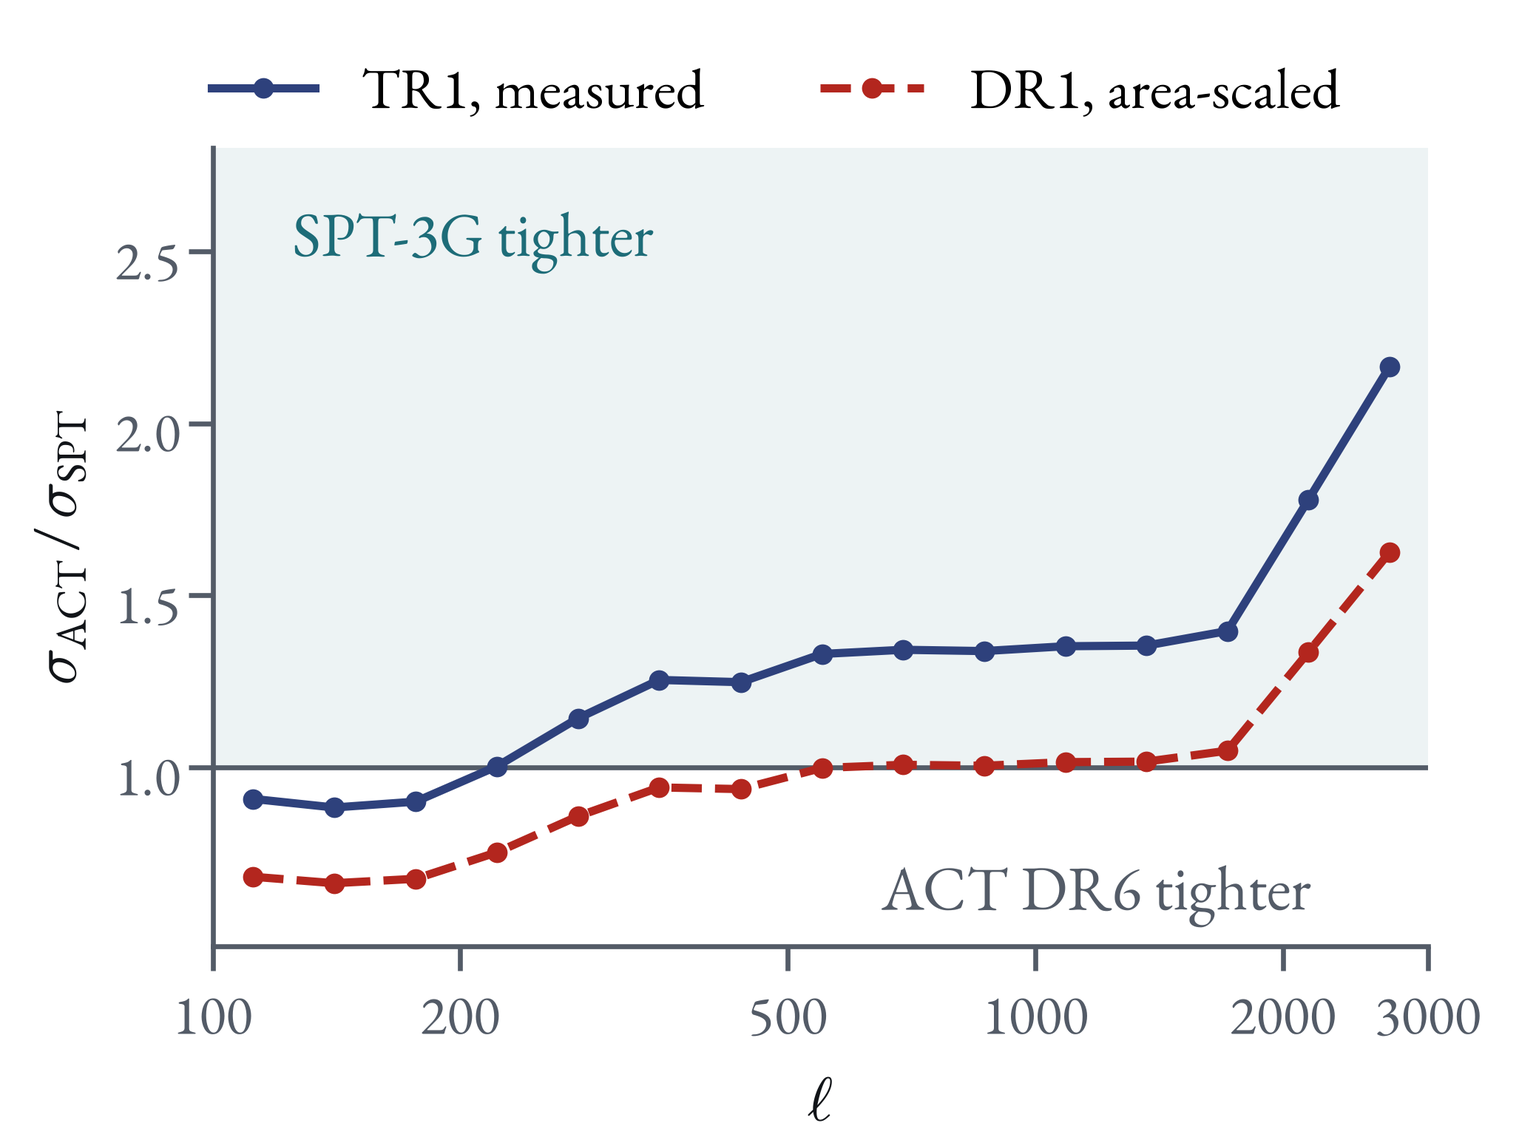
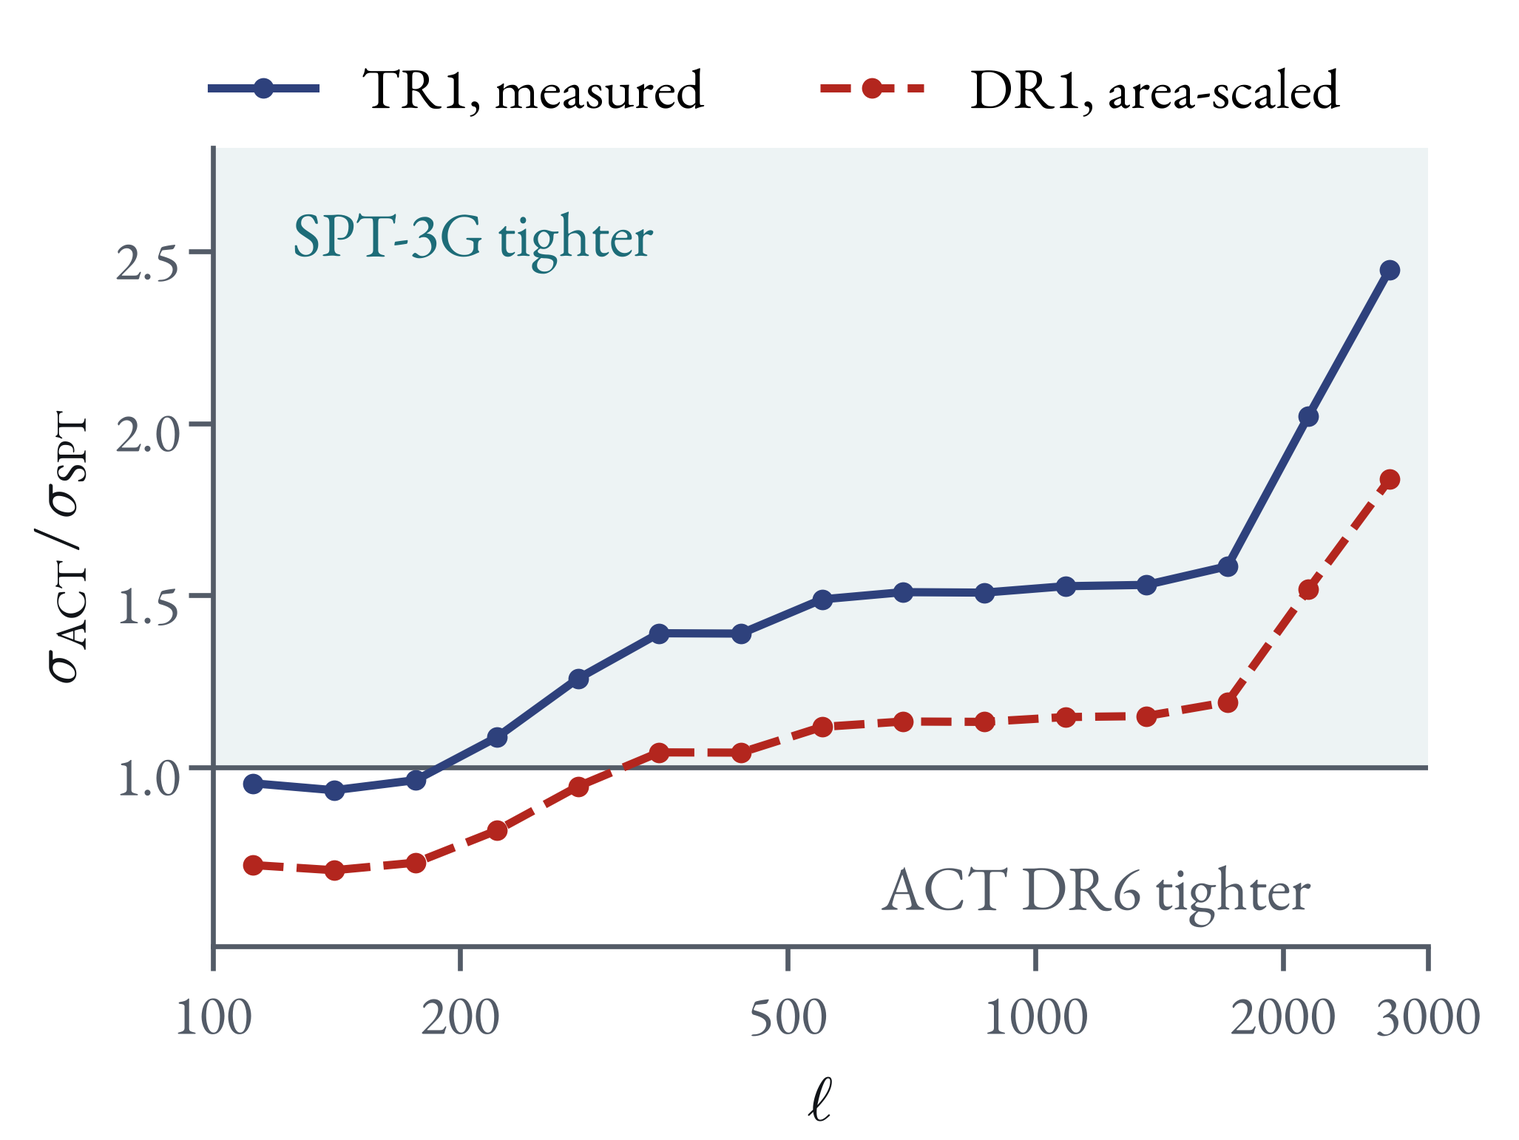
SPT deck, Cail's second 29 Oct pass: σ-ratio back on Cycle 1 (same covariance recipe for both surveys); timeline without n(z)-close-to-final and the caption, scale cuts finalized Dec–Jan, review from early April; cov-routes trimmed and larger; open questions trimmed; summary leads with the paper and
Claude-Session: https://claude.ai/code/session_01JK7o9H4x2RpUv9zFY6qD1K

diff --git a/2610_SPT_CMBX/slides/timeline.html b/2610_SPT_CMBX/slides/timeline.html
@@ -1,7 +1,7 @@
 <section data-layout="figure">
   <h2>Timeline to the Euclid DR1 release</h2>
   <figure>
-    <svg viewBox="0 0 1712 760" role="img" aria-label="Timeline to the Euclid DR1 release. On the now line, in hand: the complete TR1 product suite, the DR1 clustering catalogue and the TR1 chains. Then, in three steps: the DR1 shear catalogue during November, DR1-Foundation on 12 November, n(z) close to final at the end of November and DR1 chains ramping up from December; the final selection, n(z) and m bias in February into March and unblinding at the end of March; Euclid internal review in April and May, public DR1 and submission in June 2027.">
+    <svg viewBox="0 0 1712 760" role="img" aria-label="Timeline to the Euclid DR1 release. On the now line, in hand: the complete TR1 product suite, the DR1 clustering catalogue and the TR1 chains. Then, in three steps: the DR1 shear catalogue during November, DR1-Foundation on 12 November, DR1 chains ramping up from December and scale cuts finalized over December and January; the final selection, n(z) and m bias in February into March and unblinding at the end of March; Euclid internal review in April and May, public DR1 and submission in June 2027.">
       <defs>
         <!-- tapers for bars without a sharp start or end: masks in the bar's own box -->
         <linearGradient id="tl-taper-ramp"><stop offset="0" stop-color="#fff" stop-opacity="0.08"></stop><stop offset="1" stop-color="#fff"></stop></linearGradient>
@@ -39,17 +39,16 @@
       <circle cx="520" cy="506" r="13" class="fill-cobalt"></circle>
       <text x="496" y="518" font-size="38" text-anchor="end">TR1 chains</text>
 
-      <!-- step 1, Nov–Dec: DR1 shear sometime in November, DR1-Foundation, n(z) close to final, DR1 chains spin up -->
+      <!-- step 1, Nov–Jan: DR1 shear sometime in November, DR1-Foundation, DR1 chains spin up, scale cuts finalized -->
       <g class="fragment">
         <circle cx="574" cy="100" r="13" class="fill-accent"></circle>
         <text x="598" y="112" font-size="38">DR1-Foundation, 12 Nov</text>
         <rect x="526" y="152" width="150" height="36" rx="10" class="fill-accent" mask="url(#tl-mask-both)"></rect>
         <text x="690" y="182" font-size="38">DR1 shear catalogue</text>
-        <text x="644" y="252" font-size="38" text-anchor="end">n(z)</text>
-        <circle cx="668" cy="240" r="13" class="fill-accent"></circle>
-        <text x="692" y="252" font-size="38">close to final</text>
         <rect x="650" y="554" width="485" height="36" rx="10" class="fill-cobalt" mask="url(#tl-mask-ramp)"></rect>
         <text x="1153" y="584" font-size="38">DR1 chains</text>
+        <rect x="668" y="488" width="295" height="36" rx="10" class="fill-cobalt" mask="url(#tl-mask-both)"></rect>
+        <text x="981" y="518" font-size="38">finalizing scale cuts</text>
       </g>
 
       <!-- step 2, Feb–Mar: final products, unblinding -->
@@ -62,33 +61,32 @@
 
       <!-- step 3, Apr–Jun: review, release, submission -->
       <g class="fragment">
-        <rect x="1258" y="620" width="295" height="36" rx="10" class="fill-rule"></rect>
-        <text x="1240" y="650" font-size="38" text-anchor="end">Euclid internal review</text>
-        <path d="M1559 638 H1627 V522" class="stroke-muted fill-none" stroke-width="4" stroke-dasharray="10 8"></path>
+        <rect x="1282" y="620" width="295" height="36" rx="10" class="fill-rule"></rect>
+        <text x="1264" y="650" font-size="38" text-anchor="end">Euclid internal review</text>
+        <path d="M1583 638 H1627 V522" class="stroke-muted fill-none" stroke-width="4" stroke-dasharray="10 8"></path>
         <circle cx="1627" cy="100" r="13" class="fill-accent"></circle>
         <text x="1603" y="112" font-size="38" text-anchor="end">public DR1</text>
         <circle cx="1627" cy="506" r="13" class="fill-cobalt"></circle>
         <text x="1603" y="518" font-size="38" text-anchor="end">submission</text>
       </g>
     </svg>
-    <span class="source">Euclid DR1 plan as presented at the Euclid WL-SWG meeting, Napoli, October 2026</span>
   </figure>
   <aside class="notes">
     <ul class="skim">
       <li><strong>On “now”</strong> — what is in hand: the complete TR1 product suite, the DR1 clustering catalogues (the MER/PHZ R2 sample) and the blinded TR1 chains of the posteriors slide.</li>
       <li><strong>Top lane</strong> — Euclid data products, as presented at Napoli; a bar with a soft edge has no fixed date at that end.</li>
       <li><strong>Bottom lane</strong> — this paper's plan: DR1 chains on blinded data from December, Euclid internal review in April–May, submission on the public-release day.</li>
-      <li><strong>Steps</strong> — November–December, then February–March (final products, unblinding), then April–June (review, release, submission).</li>
+      <li><strong>Steps</strong> — November–January (shear catalogue, chains starting, scale cuts), then February–March (final products, unblinding), then April–June (review, release, submission).</li>
     </ul>
     <details><summary>Euclid data products</summary>
-    <p>The DR1 shear catalogues (the R3 reprocessing, with a much smaller PSF-size bias than R2) reach the whole Euclid Consortium during November, at the earliest at the end of October, hence the soft bar; like every DR1 shear product they are blinded until the end of March. DR1-Foundation is released on 12 November 2026. The n(z) are close to final at the end of November. The final selection, the final multiplicative shear bias $m$ from SHE-CAL (first run in November) and the final n(z) arrive in February, the n(z) at the end of February when the products freeze; the bar fades out early in March for that reason. The two-point measurements are unblinded by the end of March, and the public DR1 release is in mid-June 2027.</p>
+    <p>The DR1 shear catalogues (the R3 reprocessing, with a much smaller PSF-size bias than R2) reach the whole Euclid Consortium during November, at the earliest at the end of October, hence the soft bar; like every DR1 shear product they are blinded until the end of March. DR1-Foundation is released on 12 November 2026. The n(z) are close to final at the end of November (not drawn: the final n(z) follow). The final selection, the final multiplicative shear bias $m$ from SHE-CAL (first run in November) and the final n(z) arrive in February, the n(z) at the end of February when the products freeze; the bar fades out early in March for that reason. The two-point measurements are unblinded by the end of March, and the public DR1 release is in mid-June 2027.</p>
     </details>
     <details><summary>The analysis plan</summary>
-    <p>The DR1 chains start as soon as the n(z) are close to final, around the start of December, and run on the blinded DR1 data, ramping up as the products firm up until they converge on the final products in February and March. The SPT products listed in backup are needed for the covariance, so they come before the final chains.</p>
-    <p>Papers go into the Euclid Consortium's internal (ECP) review at about the end of March, and the roughly two months of review (fast style screening, about two weeks of author revisions, a three-week sign-off window) end around the end of May. The dashed stretch to the June release is buffer, and the papers are submitted on release day. They go in even if numbers may still shift: the DR1-Foundation strong-lensing papers were written ahead with TBD numbers and needed only a final update.</p>
+    <p>The DR1 chains start as soon as the n(z) are close to final, around the start of December, and run on the blinded DR1 data, ramping up as the products firm up until they converge on the final products in February and March. The scale cuts are finalized over December and January, with the 3×2pt group's. The SPT products listed in backup are needed for the covariance, so they come before the final chains.</p>
+    <p>Papers go into the Euclid Consortium's internal (ECP) review in early April, after unblinding at the end of March, and the roughly two months of review (fast style screening, about two weeks of author revisions, a three-week sign-off window) end in early June. The dashed stretch to the June release is buffer, and the papers are submitted on release day. They go in even if numbers may still shift: the DR1-Foundation strong-lensing papers were written ahead with TBD numbers and needed only a final update.</p>
     </details>
     <details><summary>Sources</summary>
-    <p>Euclid WL-SWG meeting, Napoli, October 2026: day 1 (DR1 timeline, release papers, ECP review timing: about two months), day 2 (3×2pt pipeline group's DR1 timeline, $m$ bias November to February) and day 3 (roadmap: full non-final chains on blinded DR1 in December).</p>
+    <p>Euclid WL-SWG meeting, Napoli, October 2026: day 1 (DR1 timeline, release papers, ECP review timing: about two months), day 2 (3×2pt pipeline group's DR1 timeline, $m$ bias November to February) and day 3 (roadmap: full non-final chains on blinded DR1 in December, final scale cuts in January).</p>
     </details>
   </aside>
 </section>

diff --git a/2610_SPT_CMBX/slides/spt-vs-act.html b/2610_SPT_CMBX/slides/spt-vs-act.html
@@ -1,7 +1,7 @@
 <section data-layout="figure-text" data-split="60">
   <h2>SPT-3G is tighter than ACT DR6 at small scales</h2>
   <figure>
-    <img src="images/spt_sigma_ratio.png" alt="Ratio of the ACT DR6 to SPT-3G per-bandpower error bar in the CMB-lensing crosses against multipole, measured on TR1 and scaled to the DR1 overlaps: crossing one at ell of about 200 on TR1; on DR1 near one from 500 to 1700, below one under ell of about 300, and above one at the two smallest-scale bands">
+    <img src="images/spt_sigma_ratio.png" alt="Ratio of the ACT DR6 to SPT-3G per-bandpower error bar in the CMB-lensing crosses against multipole, Cycle 1, measured on TR1 and scaled to the DR1 overlaps: crossing one at ell of about 190 on TR1 and 320 on DR1, about 1.5 on TR1 and 1.1 to 1.2 on DR1 from 550 to 1700, and rising at the two smallest-scale bands">
   </figure>
   <div class="text">
     <ul>
@@ -9,12 +9,12 @@
       <li>DR1: mostly comparable;<br>ACT tighter below $\ell \approx 300$</li>
       <li>ACT gains more of DR1:<br>1069 deg² against 353</li>
     </ul>
-    <p class="source">Cycle 2 · PH-GMV against baseline κ</p>
+    <p class="source">Cycle 1 · PH-GMV against baseline κ</p>
   </div>
   <aside class="notes">
     <ul class="skim">
       <li><strong>The curve</strong> — $\sigma_\mathrm{ACT}/\sigma_\mathrm{SPT}$ per bandpower in the CMB-lensing crosses; above 1, SPT-3G's error bar is smaller.</li>
-      <li><strong>Solid</strong> — measured on TR1, the mean over the twelve κ crosses; between the crossing and the small-scale rise it sits at 1.3–1.4 from $\ell \approx 550$ to 1700.</li>
+      <li><strong>Solid</strong> — measured on TR1, the mean over the twelve κ crosses; between the crossing and the small-scale rise it sits at about 1.5 from $\ell \approx 550$ to 1700.</li>
       <li><strong>Dashed</strong> — the TR1 ratio scaled by the DR1 overlap areas (×0.751), SPT-3G Main only; the Summer fields are not in it.</li>
       <li><strong>Only error bars</strong> enter: the figure carries no measured amplitude.</li>
     </ul>
@@ -22,11 +22,11 @@
     <p>Each σ is the square root of the diagonal of that survey's full NaMaster Gaussian covariance, the error bars of the data-vector slide, in the 15 bandpowers from $\ell = 100$ to 3000. The twelve crosses (shear in six source bins × κ, galaxy density in six lens bins × κ) give nearly the same ratio, because the CMB-lensing noise rather than the Euclid tracer sets it; the solid line is their mean.</p>
     <p>The dashed line scales the TR1 ratio by the overlap areas, with σ ∝ (area)$^{-1/2}$ for each survey: ratio$_\mathrm{DR1}$ = ratio$_\mathrm{TR1}\times\sqrt{(A^\mathrm{TR1}_\mathrm{ACT}/A^\mathrm{DR1}_\mathrm{ACT})(A^\mathrm{DR1}_\mathrm{SPT}/A^\mathrm{TR1}_\mathrm{SPT})} = 0.751\times$ ratio$_\mathrm{TR1}$. ACT DR6's effective overlap grows from 222 to 1069 deg², SPT-3G Main's from 130 to 353 deg² (TR1 weak-lensing coverage and DR1 VMPZ coverage, as on the footprint slide). The scaling assumes the same noise per mode and ignores mode coupling. It uses SPT-3G Main alone: the Summer fields add 751 deg² of DR1 overlap outside Main (Main and Summer together 1104 deg², more than ACT DR6), at higher lensing noise, and are not in this projection.</p>
     </details>
-    <details><summary>Against the Cycle-1 version</summary>
-    <p>The ratio is about 12% lower than in the Cycle-1 version at every ℓ (TR1 at $\ell \approx 2700$: 2.4 then, 2.2 now; DR1: 1.8 then, 1.6 now). The SPT-3G map did not change: both cycles use the bias- and profile-hardened GMV reconstruction (the Cycle-1 product's manifest records spt_estimator gmvbhttprf). The ACT DR6 covariance did: Cycle 2 models ACT's κ noise locally, from its spatially varying noise variance calibrated on 400 ACT simulations, and SPT-3G has no such calibration yet. On the galaxy-density × κ crosses, ACT's σ is unchanged between cycles while SPT-3G's grew by 12%, following the larger Cycle-2 galaxy auto-spectra; the shear × κ crosses shrank for both, ACT's more (×0.70 against ×0.80). So the shift sits on the ACT side of the comparison (inferred from that decomposition, not run as a controlled test). An SPT-3G local-noise calibration would put the two on the same footing. With κ alone, the blinded TR1 posteriors give σ($S_8$) 0.052 with SPT-3G and 0.058 with ACT DR6.</p>
+    <details><summary>Why Cycle 1</summary>
+    <p>This is the Cycle-1 TR1 data vector, where both error bars come from the same recipe: the full NaMaster Gaussian covariance on the data-derived spectra. In Cycle 2 the ACT DR6 covariance also models ACT's spatially varying κ noise, calibrated on 400 ACT simulations, and SPT-3G has no counterpart yet; that lowers ACT's σ relative to SPT-3G's by about 12% at every ℓ, so a Cycle-2 ratio is not like for like. The SPT-3G map is the same in both cycles, the bias- and profile-hardened GMV reconstruction. With κ alone, the Cycle-2 blinded TR1 posteriors give σ($S_8$) 0.052 with SPT-3G and 0.058 with ACT DR6.</p>
     </details>
     <details><summary>Sources</summary>
-    <p>σ from the Cycle-2 TR1 likelihood inputs of both surveys (the data-vector slide's export, dv_vector_spt.json). Figure: 2610_SPT_CMBX/make_sigma_ratio.py.</p>
+    <p>σ from the Cycle-1 TR1 likelihood inputs of both surveys (the Napoli data-vector export, dv_vector.json). Figure: 2610_SPT_CMBX/make_sigma_ratio.py.</p>
     </details>
   </aside>
 </section>

diff --git a/2610_SPT_CMBX/slides/summary.html b/2610_SPT_CMBX/slides/summary.html
@@ -1,19 +1,21 @@
 <section data-layout="closing">
   <h2>Summary</h2>
   <ol>
+    <li>Euclid × SPT-3G 6×2pt analysis by ~June 2027</li>
     <li>TR1 × SPT-3G: blinded 5×2pt vector and first posteriors</li>
     <li>SPT-3G κ crosses are tighter than ACT DR6 at small scales</li>
     <li>Euclid DR2 will overlap well with SPT-3G</li>
-    <li>Open: covariance with SPT mocks, κκ, foregrounds, inference</li>
-    <li>To participate: external-collaborator status, by June 2027</li>
+    <li>Open: covariance with SPT mocks, κκ, foregrounds</li>
+    <li>To participate: external-collaborator status, please contact me</li>
   </ol>
   <p class="contact">Cail Daley · CEA Paris-Saclay</p>
   <aside class="notes">
     <ul class="skim">
+      <li><strong>The paper</strong> — the Euclid DR1 key-project paper SPT × Euclid 6×2pt: Euclid shear and clustering crossed with SPT-3G CMB lensing, submitted with the public DR1 release around June 2027.</li>
       <li><strong>TR1 × SPT-3G</strong> — the pipeline is validated on GLASS mocks and blinded as in the Euclid 3×2pt analysis; the posteriors use the analytic Gaussian + SSC covariance.</li>
-      <li><strong>Small scales</strong> — SPT-3G's error bars in the κ crosses are smaller than ACT DR6's from $\ell \approx 200$ on TR1; projected to DR1 the two are comparable over most of the range, ACT DR6 tighter below $\ell \approx 300$ and SPT-3G above $\ell \approx 1700$.</li>
+      <li><strong>Small scales</strong> — SPT-3G's error bars in the κ crosses are smaller than ACT DR6's from $\ell \approx 200$ on TR1; projected to DR1 the two are comparable over most of the range, ACT DR6 tighter below $\ell \approx 300$ and SPT-3G 1.1–1.2× tighter from $\ell \approx 550$, more at the smallest scales (Cycle 1, where both covariances follow the same recipe).</li>
       <li><strong>DR2</strong> — its southern area will overlap SPT-3G far more than DR1 does.</li>
-      <li><strong>Open</strong> — the covariance plan needs SPT's mock reconstructions with their input κ; the scope (cosmologies, κκ, foreground mitigation, inference) is open.</li>
+      <li><strong>Open</strong> — the covariance plan needs SPT's mock reconstructions with their input κ; the scope (cosmologies, κκ, foreground mitigation) is open.</li>
       <li><strong>Participation</strong> — Euclid external-collaborator status, for people who will commit time before the DR1 papers in June 2027.</li>
     </ul>
   </aside>

diff --git a/2610_SPT_CMBX/slides/cov-routes.html b/2610_SPT_CMBX/slides/cov-routes.html
@@ -4,8 +4,7 @@
     <div>
       <p><strong class="accent">Constrained on SPT sims</strong></p>
       <ul>
-        <li>Euclid fields drawn around SPT's input κ</li>
-        <li>SPT's own reconstructions</li>
+        <li>Euclid fields constrained on SPT input κ</li>
         <li>most realistic κ noise</li>
       </ul>
     </div>
@@ -14,19 +13,18 @@
       <ul>
         <li>log-normal κ, own quadratic estimator</li>
         <li>SPT-, ACT-, Planck-like<br>on the same skies</li>
-        <li>a first cross-covariance</li>
+        <li>a first cross-covariance between CMB surveys</li>
       </ul>
     </div>
   </div>
-  <ul class="small">
-    <li>Combining CMB surveys needs their cross-covariance</li>
+  <ul>
     <li>SPT-constrained mocks for the SPT block, SPT-like for the crosses;<br>best, SPT reconstructions of the ACT and Planck input sims</li>
   </ul>
   <aside class="notes">
     <ul class="skim">
       <li><strong>Two routes</strong> — the same two the FLASK covariance already uses: constrained, as for ACT DR6, and unconstrained, as for the Planck-like set.</li>
       <li><strong>Constrained</strong> needs SPT's simulated input κ with the matched reconstructions (backup: data products needed from SPT).</li>
-      <li><strong>Bottom</strong> — combining CMB surveys needs their cross-covariance, which neither survey's simulations give alone; three options below.</li>
+      <li><strong>Bottom</strong> — combining CMB surveys needs their cross-covariance, which neither survey's simulations give alone: the hybrid plan, and the best option (details below).</li>
     </ul>
     <details><summary>Constrained on the existing SPT simulations</summary>
     <p>The log-normal Euclid fields are drawn conditioned on the input κ of SPT's own lensing simulations, and the CMB-lensing field in each realization is SPT's reconstruction of that simulation. The reconstruction noise then carries everything the real pipeline does (observing strategy, filtering, masking, mean field, noise biases), so this is the most realistic route for the SPT block. It needs the input κ and the matched reconstructions of SPT's simulations.</p>

diff --git a/2610_SPT_CMBX/slides/scope.html b/2610_SPT_CMBX/slides/scope.html
@@ -5,8 +5,8 @@
       <p><strong class="accent">Open questions</strong></p>
       <ul class="mid">
         <li>Cosmologies, extensions</li>
-        <li>Chains and inference:<br>I need help!<br>Especially for κκ</li>
-        <li>CMB foreground mitigation in the crosses: haven't thought deeply about it yet</li>
+        <li>How to incorporate κκ</li>
+        <li>CMB foregrounds: haven't thought deeply about it yet</li>
         <li>Too late to add Summer + Wide?</li>
       </ul>
     </div>

diff --git a/2610_SPT_CMBX/make_sigma_ratio.py b/2610_SPT_CMBX/make_sigma_ratio.py
@@ -1,6 +1,7 @@
 """SPT-3G vs ACT DR6: per-bandpower error-bar ratio sigma_ACT / sigma_SPT on the kappa crosses, TR1 and DR1.
 
-Reads the Napoli data-vector export (2610_Napoli_CMBX/private/dv_vector_spt.json, Cycle-2 LensMC variants), whose
+Reads a data-vector export of the Napoli dv-vector slide, by default the Cycle-1 one
+(2610_Napoli_CMBX/private/dv_vector.json, LensMC variants), whose
 sig is sigma_G, the square root of the diagonal of each survey's full NaMaster Gaussian covariance, for
 the 12 kappa crosses (6 shear bins, 6 lens bins) in 15 bandpowers from ell = 100 to 3000. Only error
 bars enter, so the figure carries no measured amplitude and is blind-independent.
@@ -10,10 +11,16 @@ line is drawn: their mean. The DR1 line projects it with sigma proportional to A
 overlap with Euclid: ratio_DR1 = ratio_TR1 * sqrt((A_ACT,TR1 / A_ACT,DR1) * (A_SPT,DR1 / A_SPT,TR1)).
 Writes images/spt_sigma_ratio.png.
 
+The default is Cycle 1 because there both covariances are built the same way (data-derived iNKA). The
+Cycle-2 ACT covariance adds a local kappa-noise model calibrated on ACT simulations
+(kappa_power separable_noise_variance_v1) that SPT-3G has no counterpart for, so a Cycle-2 ratio
+(--source .../dv_vector_spt.json) is not like for like. Both cycles use the SPT-3G PH-GMV map.
+
 Run: uv run --with numpy --with matplotlib --with fonttools --with brotli python make_sigma_ratio.py
 """
 from __future__ import annotations
 
+import argparse
 import ast
 import json
 import os
@@ -28,7 +35,7 @@ from matplotlib.lines import Line2D
 import numpy as np
 
 HERE = Path(__file__).resolve().parent
-DV = HERE.parent / '2610_Napoli_CMBX/private/dv_vector_spt.json'
+DV = HERE.parent / '2610_Napoli_CMBX/private/dv_vector.json'
 OUT = HERE.parent / 'images/spt_sigma_ratio.png'
 INK, MUTED = '#111418', '#535B67'
 SHADE = '#1D6C78'
@@ -51,13 +58,16 @@ def setup_font():
 
 
 def main():
+    ap = argparse.ArgumentParser()
+    ap.add_argument('--source', type=Path, default=DV, help='dv-vector export with lensmc|spt and lensmc|act')
+    args = ap.parse_args()
     setup_font()
     plt.rcParams.update({'font.size': 28, 'axes.labelsize': 30, 'xtick.labelsize': 27, 'ytick.labelsize': 27,
                          'axes.linewidth': 2.4, 'axes.edgecolor': MUTED, 'axes.labelcolor': INK,
                          'xtick.color': MUTED, 'ytick.color': MUTED, 'xtick.major.size': 12,
                          'ytick.major.size': 12, 'xtick.major.width': 2.4, 'ytick.major.width': 2.4,
                          'xtick.minor.size': 0, 'axes.spines.top': False, 'axes.spines.right': False})
-    d = json.load(open(DV))['variants']
+    d = json.load(open(args.source))['variants']
     spt, act = d['lensmc|spt'], d['lensmc|act']
     keys = sorted(k for k in spt if k.startswith('kappa_'))
     fig = plt.figure(figsize=(W_PX / DPI, H_PX / DPI), dpi=DPI)
